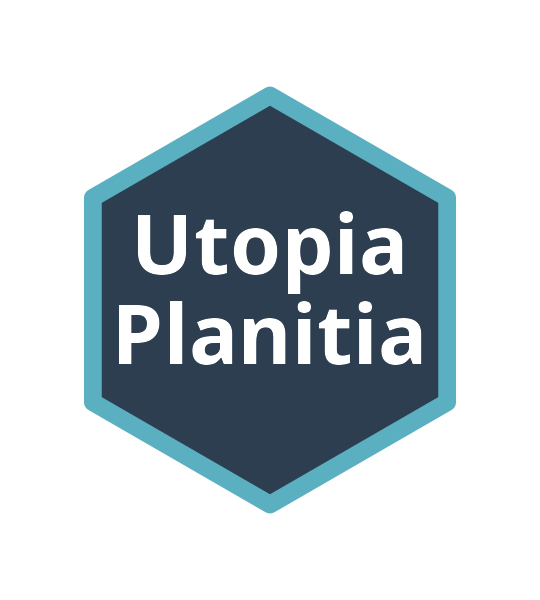
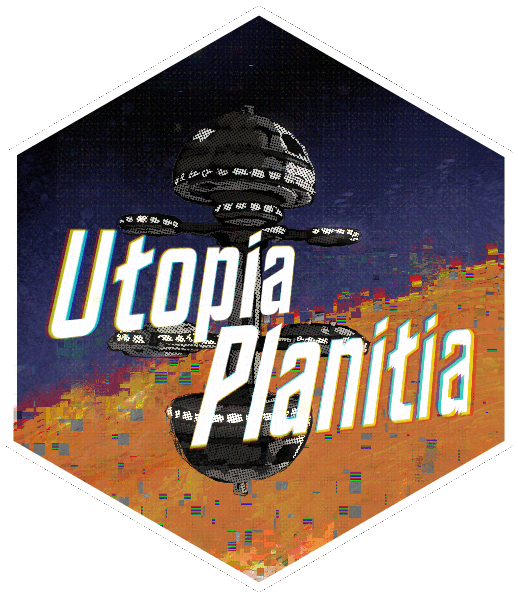
Deploying to gh-pages from @ CetiAlphaFive/UtopiaPlanitia@738af59d9994d3f0e9b8919aeb37b8b44486c2ab 🚀

diff --git a/reference/glmcf.html b/reference/glmcf.html
@@ -1,5 +1,5 @@
 <!DOCTYPE html>
-<!-- Generated by pkgdown: do not edit by hand --><html lang="en"><head><meta http-equiv="Content-Type" content="text/html; charset=UTF-8"><meta charset="utf-8"><meta http-equiv="X-UA-Compatible" content="IE=edge"><meta name="viewport" content="width=device-width, initial-scale=1, shrink-to-fit=no"><title>Causal Forest with cv.glmnet-Estimated Nuisances — glmcf • UtopiaPlanitia</title><script src="../lightswitch.js"></script><script src="../deps/jquery-3.6.0/jquery-3.6.0.min.js"></script><meta name="viewport" content="width=device-width, initial-scale=1, shrink-to-fit=no"><link href="../deps/bootstrap-5.3.1/bootstrap.min.css" rel="stylesheet"><script src="../deps/bootstrap-5.3.1/bootstrap.bundle.min.js"></script><link href="../deps/font-awesome-6.5.2/css/all.min.css" rel="stylesheet"><link href="../deps/font-awesome-6.5.2/css/v4-shims.min.css" rel="stylesheet"><script src="../deps/headroom-0.11.0/headroom.min.js"></script><script src="../deps/headroom-0.11.0/jQuery.headroom.min.js"></script><script src="../deps/bootstrap-toc-1.0.1/bootstrap-toc.min.js"></script><script src="../deps/clipboard.js-2.0.11/clipboard.min.js"></script><script src="../deps/search-1.0.0/autocomplete.jquery.min.js"></script><script src="../deps/search-1.0.0/fuse.min.js"></script><script src="../deps/search-1.0.0/mark.min.js"></script><!-- pkgdown --><script src="../pkgdown.js"></script><link href="../extra.css" rel="stylesheet"><meta property="og:title" content="Causal Forest with cv.glmnet-Estimated Nuisances — glmcf"><meta name="description" content="Refits a grf::causal_forest() after replacing the conditional outcome
+<!-- Generated by pkgdown: do not edit by hand --><html lang="en"><head><meta http-equiv="Content-Type" content="text/html; charset=UTF-8"><meta charset="utf-8"><meta http-equiv="X-UA-Compatible" content="IE=edge"><meta name="viewport" content="width=device-width, initial-scale=1, shrink-to-fit=no"><title>Causal Forest with cv.glmnet-Estimated Nuisances — glmcf • UtopiaPlanitia</title><script src="../lightswitch.js"></script><script src="../deps/jquery-3.6.0/jquery-3.6.0.min.js"></script><meta name="viewport" content="width=device-width, initial-scale=1, shrink-to-fit=no"><link href="../deps/bootstrap-5.3.8/bootstrap.min.css" rel="stylesheet"><script src="../deps/bootstrap-5.3.8/bootstrap.bundle.min.js"></script><link href="../deps/font-awesome-6.5.2/css/all.min.css" rel="stylesheet"><link href="../deps/font-awesome-6.5.2/css/v4-shims.min.css" rel="stylesheet"><script src="../deps/headroom-0.11.0/headroom.min.js"></script><script src="../deps/headroom-0.11.0/jQuery.headroom.min.js"></script><script src="../deps/bootstrap-toc-1.0.1/bootstrap-toc.min.js"></script><script src="../deps/clipboard.js-2.0.11/clipboard.min.js"></script><script src="../deps/search-1.0.0/autocomplete.jquery.min.js"></script><script src="../deps/search-1.0.0/fuse.min.js"></script><script src="../deps/search-1.0.0/mark.min.js"></script><!-- pkgdown --><script src="../pkgdown.js"></script><link href="../extra.css" rel="stylesheet"><meta property="og:title" content="Causal Forest with cv.glmnet-Estimated Nuisances — glmcf"><meta name="description" content="Refits a grf::causal_forest() after replacing the conditional outcome
 m(x) = E[Y | X = x] and propensity e(x) = E[W | X = x] with
 cross-fitted predictions from glmnet::cv.glmnet() (penalized
 elastic-net regression / classification, optionally relaxed). The CATE
@@ -52,7 +52,7 @@ the Robinson-residualisation nuisances are swapped."></head><body>
     <div class="ref-description section level2">
     <p>Refits a <code><a href="https://rdrr.io/pkg/grf/man/causal_forest.html" class="external-link">grf::causal_forest()</a></code> after replacing the conditional outcome
 <code>m(x) = E[Y | X = x]</code> and propensity <code>e(x) = E[W | X = x]</code> with
-cross-fitted predictions from <code><a href="https://glmnet.stanford.edu/reference/cv.glmnet.html" class="external-link">glmnet::cv.glmnet()</a></code> (penalized
+cross-fitted predictions from <code><a href="https://rdrr.io/pkg/glmnet/man/cv.glmnet.html" class="external-link">glmnet::cv.glmnet()</a></code> (penalized
 elastic-net regression / classification, optionally relaxed). The CATE
 estimator and identification assumptions of <code>grf</code> are unchanged — only
 the Robinson-residualisation nuisances are swapped.</p>
@@ -146,7 +146,7 @@ coefficients are biased by the lasso shrinkage.</p></dd>
 
 <dt id="arg-glmnet-args">glmnet_args<a class="anchor" aria-label="anchor" href="#arg-glmnet-args"></a></dt>
 <dd><p>Named list of additional arguments forwarded to
-<code><a href="https://glmnet.stanford.edu/reference/cv.glmnet.html" class="external-link">glmnet::cv.glmnet()</a></code> (e.g. <code>list(nfolds = 5L, nlambda = 50L)</code>).
+<code><a href="https://rdrr.io/pkg/glmnet/man/cv.glmnet.html" class="external-link">glmnet::cv.glmnet()</a></code> (e.g. <code>list(nfolds = 5L, nlambda = 50L)</code>).
 Note: <code>nfolds</code>/<code>foldid</code> supplied here are overridden by the
 internal shared <code>foldid</code> used for alpha tuning.</p></dd>
 

diff --git a/404.html b/404.html
@@ -7,8 +7,8 @@
 <meta name="viewport" content="width=device-width, initial-scale=1, shrink-to-fit=no">
 <title>Page not found (404) • UtopiaPlanitia</title>
 <script src="https://cetialphafive.github.io/UtopiaPlanitia/lightswitch.js"></script><script src="https://cetialphafive.github.io/UtopiaPlanitia/deps/jquery-3.6.0/jquery-3.6.0.min.js"></script><meta name="viewport" content="width=device-width, initial-scale=1, shrink-to-fit=no">
-<link href="https://cetialphafive.github.io/UtopiaPlanitia/deps/bootstrap-5.3.1/bootstrap.min.css" rel="stylesheet">
-<script src="https://cetialphafive.github.io/UtopiaPlanitia/deps/bootstrap-5.3.1/bootstrap.bundle.min.js"></script><link href="https://cetialphafive.github.io/UtopiaPlanitia/deps/font-awesome-6.5.2/css/all.min.css" rel="stylesheet">
+<link href="https://cetialphafive.github.io/UtopiaPlanitia/deps/bootstrap-5.3.8/bootstrap.min.css" rel="stylesheet">
+<script src="https://cetialphafive.github.io/UtopiaPlanitia/deps/bootstrap-5.3.8/bootstrap.bundle.min.js"></script><link href="https://cetialphafive.github.io/UtopiaPlanitia/deps/font-awesome-6.5.2/css/all.min.css" rel="stylesheet">
 <link href="https://cetialphafive.github.io/UtopiaPlanitia/deps/font-awesome-6.5.2/css/v4-shims.min.css" rel="stylesheet">
 <script src="https://cetialphafive.github.io/UtopiaPlanitia/deps/headroom-0.11.0/headroom.min.js"></script><script src="https://cetialphafive.github.io/UtopiaPlanitia/deps/headroom-0.11.0/jQuery.headroom.min.js"></script><script src="https://cetialphafive.github.io/UtopiaPlanitia/deps/bootstrap-toc-1.0.1/bootstrap-toc.min.js"></script><script src="https://cetialphafive.github.io/UtopiaPlanitia/deps/clipboard.js-2.0.11/clipboard.min.js"></script><script src="https://cetialphafive.github.io/UtopiaPlanitia/deps/search-1.0.0/autocomplete.jquery.min.js"></script><script src="https://cetialphafive.github.io/UtopiaPlanitia/deps/search-1.0.0/fuse.min.js"></script><script src="https://cetialphafive.github.io/UtopiaPlanitia/deps/search-1.0.0/mark.min.js"></script><!-- pkgdown --><script src="https://cetialphafive.github.io/UtopiaPlanitia/pkgdown.js"></script><link href="https://cetialphafive.github.io/UtopiaPlanitia/extra.css" rel="stylesheet">
 <meta property="og:title" content="Page not found (404)">

diff --git a/index.html b/index.html
@@ -7,8 +7,8 @@
 <meta name="viewport" content="width=device-width, initial-scale=1, shrink-to-fit=no">
 <title>Variable Importance, Heterogeneity Tests, and Visualization for Causal Forests • UtopiaPlanitia</title>
 <script src="lightswitch.js"></script><script src="deps/jquery-3.6.0/jquery-3.6.0.min.js"></script><meta name="viewport" content="width=device-width, initial-scale=1, shrink-to-fit=no">
-<link href="deps/bootstrap-5.3.1/bootstrap.min.css" rel="stylesheet">
-<script src="deps/bootstrap-5.3.1/bootstrap.bundle.min.js"></script><link href="deps/font-awesome-6.5.2/css/all.min.css" rel="stylesheet">
+<link href="deps/bootstrap-5.3.8/bootstrap.min.css" rel="stylesheet">
+<script src="deps/bootstrap-5.3.8/bootstrap.bundle.min.js"></script><link href="deps/font-awesome-6.5.2/css/all.min.css" rel="stylesheet">
 <link href="deps/font-awesome-6.5.2/css/v4-shims.min.css" rel="stylesheet">
 <script src="deps/headroom-0.11.0/headroom.min.js"></script><script src="deps/headroom-0.11.0/jQuery.headroom.min.js"></script><script src="deps/bootstrap-toc-1.0.1/bootstrap-toc.min.js"></script><script src="deps/clipboard.js-2.0.11/clipboard.min.js"></script><script src="deps/search-1.0.0/autocomplete.jquery.min.js"></script><script src="deps/search-1.0.0/fuse.min.js"></script><script src="deps/search-1.0.0/mark.min.js"></script><!-- pkgdown --><script src="pkgdown.js"></script><link href="extra.css" rel="stylesheet">
 <meta property="og:title" content="Variable Importance, Heterogeneity Tests, and Visualization for Causal Forests">

diff --git a/reference/autocf.html b/reference/autocf.html
@@ -1,5 +1,5 @@
 <!DOCTYPE html>
-<!-- Generated by pkgdown: do not edit by hand --><html lang="en"><head><meta http-equiv="Content-Type" content="text/html; charset=UTF-8"><meta charset="utf-8"><meta http-equiv="X-UA-Compatible" content="IE=edge"><meta name="viewport" content="width=device-width, initial-scale=1, shrink-to-fit=no"><title>Auto-Selected Nuisance Causal Forest — autocf • UtopiaPlanitia</title><script src="../lightswitch.js"></script><script src="../deps/jquery-3.6.0/jquery-3.6.0.min.js"></script><meta name="viewport" content="width=device-width, initial-scale=1, shrink-to-fit=no"><link href="../deps/bootstrap-5.3.1/bootstrap.min.css" rel="stylesheet"><script src="../deps/bootstrap-5.3.1/bootstrap.bundle.min.js"></script><link href="../deps/font-awesome-6.5.2/css/all.min.css" rel="stylesheet"><link href="../deps/font-awesome-6.5.2/css/v4-shims.min.css" rel="stylesheet"><script src="../deps/headroom-0.11.0/headroom.min.js"></script><script src="../deps/headroom-0.11.0/jQuery.headroom.min.js"></script><script src="../deps/bootstrap-toc-1.0.1/bootstrap-toc.min.js"></script><script src="../deps/clipboard.js-2.0.11/clipboard.min.js"></script><script src="../deps/search-1.0.0/autocomplete.jquery.min.js"></script><script src="../deps/search-1.0.0/fuse.min.js"></script><script src="../deps/search-1.0.0/mark.min.js"></script><!-- pkgdown --><script src="../pkgdown.js"></script><link href="../extra.css" rel="stylesheet"><meta property="og:title" content="Auto-Selected Nuisance Causal Forest — autocf"><meta name="description" content="Refits a grf::causal_forest() after replacing the conditional outcome
+<!-- Generated by pkgdown: do not edit by hand --><html lang="en"><head><meta http-equiv="Content-Type" content="text/html; charset=UTF-8"><meta charset="utf-8"><meta http-equiv="X-UA-Compatible" content="IE=edge"><meta name="viewport" content="width=device-width, initial-scale=1, shrink-to-fit=no"><title>Auto-Selected Nuisance Causal Forest — autocf • UtopiaPlanitia</title><script src="../lightswitch.js"></script><script src="../deps/jquery-3.6.0/jquery-3.6.0.min.js"></script><meta name="viewport" content="width=device-width, initial-scale=1, shrink-to-fit=no"><link href="../deps/bootstrap-5.3.8/bootstrap.min.css" rel="stylesheet"><script src="../deps/bootstrap-5.3.8/bootstrap.bundle.min.js"></script><link href="../deps/font-awesome-6.5.2/css/all.min.css" rel="stylesheet"><link href="../deps/font-awesome-6.5.2/css/v4-shims.min.css" rel="stylesheet"><script src="../deps/headroom-0.11.0/headroom.min.js"></script><script src="../deps/headroom-0.11.0/jQuery.headroom.min.js"></script><script src="../deps/bootstrap-toc-1.0.1/bootstrap-toc.min.js"></script><script src="../deps/clipboard.js-2.0.11/clipboard.min.js"></script><script src="../deps/search-1.0.0/autocomplete.jquery.min.js"></script><script src="../deps/search-1.0.0/fuse.min.js"></script><script src="../deps/search-1.0.0/mark.min.js"></script><!-- pkgdown --><script src="../pkgdown.js"></script><link href="../extra.css" rel="stylesheet"><meta property="og:title" content="Auto-Selected Nuisance Causal Forest — autocf"><meta name="description" content="Refits a grf::causal_forest() after replacing the conditional outcome
 m(x) = E[Y | X = x] and propensity e(x) = E[W | X = x] with the
 best-performing nuisance estimator from a candidate pool, scored by
 shared K-fold cross-fit weighted CV loss. The CATE estimator and
@@ -156,7 +156,7 @@ uses mlr3's default xgboost hyperparameters. Default <code>10L</code>.</p></dd>
 <dt id="arg-tabpfn-args-glmnet-args-xgboost-args-bart-args">tabpfn_args, glmnet_args, xgboost_args, bart_args<a class="anchor" aria-label="anchor" href="#arg-tabpfn-args-glmnet-args-xgboost-args-bart-args"></a></dt>
 <dd><p>Optional named
 lists of per-candidate extra arguments. <code>tabpfn_args</code> is forwarded
-to <code><a href="https://tabpfn.tidymodels.org/reference/tab_pfn.html" class="external-link">tabpfn::tab_pfn()</a></code>; <code>glmnet_args</code> to <code><a href="https://glmnet.stanford.edu/reference/cv.glmnet.html" class="external-link">glmnet::cv.glmnet()</a></code>;
+to <code><a href="https://tabpfn.tidymodels.org/reference/tab_pfn.html" class="external-link">tabpfn::tab_pfn()</a></code>; <code>glmnet_args</code> to <code><a href="https://rdrr.io/pkg/glmnet/man/cv.glmnet.html" class="external-link">glmnet::cv.glmnet()</a></code>;
 <code>xgboost_args</code> is forwarded to the mlr3 <code>xgboost</code> learner's
 <code>param_set$values</code> (use to set, e.g., <code>nthread = 4</code> for multi-core
 CPU or <code>device = "cuda"</code> to enable GPU on systems with a CUDA

diff --git a/LICENSE-text.html b/LICENSE-text.html
@@ -1,5 +1,5 @@
 <!DOCTYPE html>
-<!-- Generated by pkgdown: do not edit by hand --><html lang="en"><head><meta http-equiv="Content-Type" content="text/html; charset=UTF-8"><meta charset="utf-8"><meta http-equiv="X-UA-Compatible" content="IE=edge"><meta name="viewport" content="width=device-width, initial-scale=1, shrink-to-fit=no"><title>License • UtopiaPlanitia</title><script src="lightswitch.js"></script><script src="deps/jquery-3.6.0/jquery-3.6.0.min.js"></script><meta name="viewport" content="width=device-width, initial-scale=1, shrink-to-fit=no"><link href="deps/bootstrap-5.3.1/bootstrap.min.css" rel="stylesheet"><script src="deps/bootstrap-5.3.1/bootstrap.bundle.min.js"></script><link href="deps/font-awesome-6.5.2/css/all.min.css" rel="stylesheet"><link href="deps/font-awesome-6.5.2/css/v4-shims.min.css" rel="stylesheet"><script src="deps/headroom-0.11.0/headroom.min.js"></script><script src="deps/headroom-0.11.0/jQuery.headroom.min.js"></script><script src="deps/bootstrap-toc-1.0.1/bootstrap-toc.min.js"></script><script src="deps/clipboard.js-2.0.11/clipboard.min.js"></script><script src="deps/search-1.0.0/autocomplete.jquery.min.js"></script><script src="deps/search-1.0.0/fuse.min.js"></script><script src="deps/search-1.0.0/mark.min.js"></script><!-- pkgdown --><script src="pkgdown.js"></script><link href="extra.css" rel="stylesheet"><meta property="og:title" content="License"></head><body>
+<!-- Generated by pkgdown: do not edit by hand --><html lang="en"><head><meta http-equiv="Content-Type" content="text/html; charset=UTF-8"><meta charset="utf-8"><meta http-equiv="X-UA-Compatible" content="IE=edge"><meta name="viewport" content="width=device-width, initial-scale=1, shrink-to-fit=no"><title>License • UtopiaPlanitia</title><script src="lightswitch.js"></script><script src="deps/jquery-3.6.0/jquery-3.6.0.min.js"></script><meta name="viewport" content="width=device-width, initial-scale=1, shrink-to-fit=no"><link href="deps/bootstrap-5.3.8/bootstrap.min.css" rel="stylesheet"><script src="deps/bootstrap-5.3.8/bootstrap.bundle.min.js"></script><link href="deps/font-awesome-6.5.2/css/all.min.css" rel="stylesheet"><link href="deps/font-awesome-6.5.2/css/v4-shims.min.css" rel="stylesheet"><script src="deps/headroom-0.11.0/headroom.min.js"></script><script src="deps/headroom-0.11.0/jQuery.headroom.min.js"></script><script src="deps/bootstrap-toc-1.0.1/bootstrap-toc.min.js"></script><script src="deps/clipboard.js-2.0.11/clipboard.min.js"></script><script src="deps/search-1.0.0/autocomplete.jquery.min.js"></script><script src="deps/search-1.0.0/fuse.min.js"></script><script src="deps/search-1.0.0/mark.min.js"></script><!-- pkgdown --><script src="pkgdown.js"></script><link href="extra.css" rel="stylesheet"><meta property="og:title" content="License"></head><body>
     <a href="#main" class="visually-hidden-focusable">Skip to contents</a>
 
 

diff --git a/authors.html b/authors.html
@@ -1,5 +1,5 @@
 <!DOCTYPE html>
-<!-- Generated by pkgdown: do not edit by hand --><html lang="en"><head><meta http-equiv="Content-Type" content="text/html; charset=UTF-8"><meta charset="utf-8"><meta http-equiv="X-UA-Compatible" content="IE=edge"><meta name="viewport" content="width=device-width, initial-scale=1, shrink-to-fit=no"><title>Authors and Citation • UtopiaPlanitia</title><script src="lightswitch.js"></script><script src="deps/jquery-3.6.0/jquery-3.6.0.min.js"></script><meta name="viewport" content="width=device-width, initial-scale=1, shrink-to-fit=no"><link href="deps/bootstrap-5.3.1/bootstrap.min.css" rel="stylesheet"><script src="deps/bootstrap-5.3.1/bootstrap.bundle.min.js"></script><link href="deps/font-awesome-6.5.2/css/all.min.css" rel="stylesheet"><link href="deps/font-awesome-6.5.2/css/v4-shims.min.css" rel="stylesheet"><script src="deps/headroom-0.11.0/headroom.min.js"></script><script src="deps/headroom-0.11.0/jQuery.headroom.min.js"></script><script src="deps/bootstrap-toc-1.0.1/bootstrap-toc.min.js"></script><script src="deps/clipboard.js-2.0.11/clipboard.min.js"></script><script src="deps/search-1.0.0/autocomplete.jquery.min.js"></script><script src="deps/search-1.0.0/fuse.min.js"></script><script src="deps/search-1.0.0/mark.min.js"></script><!-- pkgdown --><script src="pkgdown.js"></script><link href="extra.css" rel="stylesheet"><meta property="og:title" content="Authors and Citation"></head><body>
+<!-- Generated by pkgdown: do not edit by hand --><html lang="en"><head><meta http-equiv="Content-Type" content="text/html; charset=UTF-8"><meta charset="utf-8"><meta http-equiv="X-UA-Compatible" content="IE=edge"><meta name="viewport" content="width=device-width, initial-scale=1, shrink-to-fit=no"><title>Authors and Citation • UtopiaPlanitia</title><script src="lightswitch.js"></script><script src="deps/jquery-3.6.0/jquery-3.6.0.min.js"></script><meta name="viewport" content="width=device-width, initial-scale=1, shrink-to-fit=no"><link href="deps/bootstrap-5.3.8/bootstrap.min.css" rel="stylesheet"><script src="deps/bootstrap-5.3.8/bootstrap.bundle.min.js"></script><link href="deps/font-awesome-6.5.2/css/all.min.css" rel="stylesheet"><link href="deps/font-awesome-6.5.2/css/v4-shims.min.css" rel="stylesheet"><script src="deps/headroom-0.11.0/headroom.min.js"></script><script src="deps/headroom-0.11.0/jQuery.headroom.min.js"></script><script src="deps/bootstrap-toc-1.0.1/bootstrap-toc.min.js"></script><script src="deps/clipboard.js-2.0.11/clipboard.min.js"></script><script src="deps/search-1.0.0/autocomplete.jquery.min.js"></script><script src="deps/search-1.0.0/fuse.min.js"></script><script src="deps/search-1.0.0/mark.min.js"></script><!-- pkgdown --><script src="pkgdown.js"></script><link href="extra.css" rel="stylesheet"><meta property="og:title" content="Authors and Citation"></head><body>
     <a href="#main" class="visually-hidden-focusable">Skip to contents</a>
 
 

diff --git a/news/index.html b/news/index.html
@@ -1,5 +1,5 @@
 <!DOCTYPE html>
-<!-- Generated by pkgdown: do not edit by hand --><html lang="en"><head><meta http-equiv="Content-Type" content="text/html; charset=UTF-8"><meta charset="utf-8"><meta http-equiv="X-UA-Compatible" content="IE=edge"><meta name="viewport" content="width=device-width, initial-scale=1, shrink-to-fit=no"><title>Changelog • UtopiaPlanitia</title><script src="../lightswitch.js"></script><script src="../deps/jquery-3.6.0/jquery-3.6.0.min.js"></script><meta name="viewport" content="width=device-width, initial-scale=1, shrink-to-fit=no"><link href="../deps/bootstrap-5.3.1/bootstrap.min.css" rel="stylesheet"><script src="../deps/bootstrap-5.3.1/bootstrap.bundle.min.js"></script><link href="../deps/font-awesome-6.5.2/css/all.min.css" rel="stylesheet"><link href="../deps/font-awesome-6.5.2/css/v4-shims.min.css" rel="stylesheet"><script src="../deps/headroom-0.11.0/headroom.min.js"></script><script src="../deps/headroom-0.11.0/jQuery.headroom.min.js"></script><script src="../deps/bootstrap-toc-1.0.1/bootstrap-toc.min.js"></script><script src="../deps/clipboard.js-2.0.11/clipboard.min.js"></script><script src="../deps/search-1.0.0/autocomplete.jquery.min.js"></script><script src="../deps/search-1.0.0/fuse.min.js"></script><script src="../deps/search-1.0.0/mark.min.js"></script><!-- pkgdown --><script src="../pkgdown.js"></script><link href="../extra.css" rel="stylesheet"><meta property="og:title" content="Changelog"></head><body>
+<!-- Generated by pkgdown: do not edit by hand --><html lang="en"><head><meta http-equiv="Content-Type" content="text/html; charset=UTF-8"><meta charset="utf-8"><meta http-equiv="X-UA-Compatible" content="IE=edge"><meta name="viewport" content="width=device-width, initial-scale=1, shrink-to-fit=no"><title>Changelog • UtopiaPlanitia</title><script src="../lightswitch.js"></script><script src="../deps/jquery-3.6.0/jquery-3.6.0.min.js"></script><meta name="viewport" content="width=device-width, initial-scale=1, shrink-to-fit=no"><link href="../deps/bootstrap-5.3.8/bootstrap.min.css" rel="stylesheet"><script src="../deps/bootstrap-5.3.8/bootstrap.bundle.min.js"></script><link href="../deps/font-awesome-6.5.2/css/all.min.css" rel="stylesheet"><link href="../deps/font-awesome-6.5.2/css/v4-shims.min.css" rel="stylesheet"><script src="../deps/headroom-0.11.0/headroom.min.js"></script><script src="../deps/headroom-0.11.0/jQuery.headroom.min.js"></script><script src="../deps/bootstrap-toc-1.0.1/bootstrap-toc.min.js"></script><script src="../deps/clipboard.js-2.0.11/clipboard.min.js"></script><script src="../deps/search-1.0.0/autocomplete.jquery.min.js"></script><script src="../deps/search-1.0.0/fuse.min.js"></script><script src="../deps/search-1.0.0/mark.min.js"></script><!-- pkgdown --><script src="../pkgdown.js"></script><link href="../extra.css" rel="stylesheet"><meta property="og:title" content="Changelog"></head><body>
     <a href="#main" class="visually-hidden-focusable">Skip to contents</a>
 
 

diff --git a/reference/cf_loco.html b/reference/cf_loco.html
@@ -1,5 +1,5 @@
 <!DOCTYPE html>
-<!-- Generated by pkgdown: do not edit by hand --><html lang="en"><head><meta http-equiv="Content-Type" content="text/html; charset=UTF-8"><meta charset="utf-8"><meta http-equiv="X-UA-Compatible" content="IE=edge"><meta name="viewport" content="width=device-width, initial-scale=1, shrink-to-fit=no"><title>Modified LOCO Variable Importance for Causal Forests — cf_loco • UtopiaPlanitia</title><script src="../lightswitch.js"></script><script src="../deps/jquery-3.6.0/jquery-3.6.0.min.js"></script><meta name="viewport" content="width=device-width, initial-scale=1, shrink-to-fit=no"><link href="../deps/bootstrap-5.3.1/bootstrap.min.css" rel="stylesheet"><script src="../deps/bootstrap-5.3.1/bootstrap.bundle.min.js"></script><link href="../deps/font-awesome-6.5.2/css/all.min.css" rel="stylesheet"><link href="../deps/font-awesome-6.5.2/css/v4-shims.min.css" rel="stylesheet"><script src="../deps/headroom-0.11.0/headroom.min.js"></script><script src="../deps/headroom-0.11.0/jQuery.headroom.min.js"></script><script src="../deps/bootstrap-toc-1.0.1/bootstrap-toc.min.js"></script><script src="../deps/clipboard.js-2.0.11/clipboard.min.js"></script><script src="../deps/search-1.0.0/autocomplete.jquery.min.js"></script><script src="../deps/search-1.0.0/fuse.min.js"></script><script src="../deps/search-1.0.0/mark.min.js"></script><!-- pkgdown --><script src="../pkgdown.js"></script><link href="../extra.css" rel="stylesheet"><meta property="og:title" content="Modified LOCO Variable Importance for Causal Forests — cf_loco"><meta name="description" content="Computes leave-one-covariate-out (LOCO) variable importance for causal
+<!-- Generated by pkgdown: do not edit by hand --><html lang="en"><head><meta http-equiv="Content-Type" content="text/html; charset=UTF-8"><meta charset="utf-8"><meta http-equiv="X-UA-Compatible" content="IE=edge"><meta name="viewport" content="width=device-width, initial-scale=1, shrink-to-fit=no"><title>Modified LOCO Variable Importance for Causal Forests — cf_loco • UtopiaPlanitia</title><script src="../lightswitch.js"></script><script src="../deps/jquery-3.6.0/jquery-3.6.0.min.js"></script><meta name="viewport" content="width=device-width, initial-scale=1, shrink-to-fit=no"><link href="../deps/bootstrap-5.3.8/bootstrap.min.css" rel="stylesheet"><script src="../deps/bootstrap-5.3.8/bootstrap.bundle.min.js"></script><link href="../deps/font-awesome-6.5.2/css/all.min.css" rel="stylesheet"><link href="../deps/font-awesome-6.5.2/css/v4-shims.min.css" rel="stylesheet"><script src="../deps/headroom-0.11.0/headroom.min.js"></script><script src="../deps/headroom-0.11.0/jQuery.headroom.min.js"></script><script src="../deps/bootstrap-toc-1.0.1/bootstrap-toc.min.js"></script><script src="../deps/clipboard.js-2.0.11/clipboard.min.js"></script><script src="../deps/search-1.0.0/autocomplete.jquery.min.js"></script><script src="../deps/search-1.0.0/fuse.min.js"></script><script src="../deps/search-1.0.0/mark.min.js"></script><!-- pkgdown --><script src="../pkgdown.js"></script><link href="../extra.css" rel="stylesheet"><meta property="og:title" content="Modified LOCO Variable Importance for Causal Forests — cf_loco"><meta name="description" content="Computes leave-one-covariate-out (LOCO) variable importance for causal
 forests using the debiased method of Benard and Josse (2023)."><meta property="og:description" content="Computes leave-one-covariate-out (LOCO) variable importance for causal
 forests using the debiased method of Benard and Josse (2023)."></head><body>
     <a href="#main" class="visually-hidden-focusable">Skip to contents</a>

diff --git a/reference/index.html b/reference/index.html
@@ -1,5 +1,5 @@
 <!DOCTYPE html>
-<!-- Generated by pkgdown: do not edit by hand --><html lang="en"><head><meta http-equiv="Content-Type" content="text/html; charset=UTF-8"><meta charset="utf-8"><meta http-equiv="X-UA-Compatible" content="IE=edge"><meta name="viewport" content="width=device-width, initial-scale=1, shrink-to-fit=no"><title>Package index • UtopiaPlanitia</title><script src="../lightswitch.js"></script><script src="../deps/jquery-3.6.0/jquery-3.6.0.min.js"></script><meta name="viewport" content="width=device-width, initial-scale=1, shrink-to-fit=no"><link href="../deps/bootstrap-5.3.1/bootstrap.min.css" rel="stylesheet"><script src="../deps/bootstrap-5.3.1/bootstrap.bundle.min.js"></script><link href="../deps/font-awesome-6.5.2/css/all.min.css" rel="stylesheet"><link href="../deps/font-awesome-6.5.2/css/v4-shims.min.css" rel="stylesheet"><script src="../deps/headroom-0.11.0/headroom.min.js"></script><script src="../deps/headroom-0.11.0/jQuery.headroom.min.js"></script><script src="../deps/bootstrap-toc-1.0.1/bootstrap-toc.min.js"></script><script src="../deps/clipboard.js-2.0.11/clipboard.min.js"></script><script src="../deps/search-1.0.0/autocomplete.jquery.min.js"></script><script src="../deps/search-1.0.0/fuse.min.js"></script><script src="../deps/search-1.0.0/mark.min.js"></script><!-- pkgdown --><script src="../pkgdown.js"></script><link href="../extra.css" rel="stylesheet"><meta property="og:title" content="Package index"></head><body>
+<!-- Generated by pkgdown: do not edit by hand --><html lang="en"><head><meta http-equiv="Content-Type" content="text/html; charset=UTF-8"><meta charset="utf-8"><meta http-equiv="X-UA-Compatible" content="IE=edge"><meta name="viewport" content="width=device-width, initial-scale=1, shrink-to-fit=no"><title>Package index • UtopiaPlanitia</title><script src="../lightswitch.js"></script><script src="../deps/jquery-3.6.0/jquery-3.6.0.min.js"></script><meta name="viewport" content="width=device-width, initial-scale=1, shrink-to-fit=no"><link href="../deps/bootstrap-5.3.8/bootstrap.min.css" rel="stylesheet"><script src="../deps/bootstrap-5.3.8/bootstrap.bundle.min.js"></script><link href="../deps/font-awesome-6.5.2/css/all.min.css" rel="stylesheet"><link href="../deps/font-awesome-6.5.2/css/v4-shims.min.css" rel="stylesheet"><script src="../deps/headroom-0.11.0/headroom.min.js"></script><script src="../deps/headroom-0.11.0/jQuery.headroom.min.js"></script><script src="../deps/bootstrap-toc-1.0.1/bootstrap-toc.min.js"></script><script src="../deps/clipboard.js-2.0.11/clipboard.min.js"></script><script src="../deps/search-1.0.0/autocomplete.jquery.min.js"></script><script src="../deps/search-1.0.0/fuse.min.js"></script><script src="../deps/search-1.0.0/mark.min.js"></script><!-- pkgdown --><script src="../pkgdown.js"></script><link href="../extra.css" rel="stylesheet"><meta property="og:title" content="Package index"></head><body>
     <a href="#main" class="visually-hidden-focusable">Skip to contents</a>
 
 

diff --git a/reference/loco.html b/reference/loco.html
@@ -1,5 +1,5 @@
 <!DOCTYPE html>
-<!-- Generated by pkgdown: do not edit by hand --><html lang="en"><head><meta http-equiv="Content-Type" content="text/html; charset=UTF-8"><meta charset="utf-8"><meta http-equiv="X-UA-Compatible" content="IE=edge"><meta name="viewport" content="width=device-width, initial-scale=1, shrink-to-fit=no"><title>LOCO Variable Importance for Outcome Models — loco • UtopiaPlanitia</title><script src="../lightswitch.js"></script><script src="../deps/jquery-3.6.0/jquery-3.6.0.min.js"></script><meta name="viewport" content="width=device-width, initial-scale=1, shrink-to-fit=no"><link href="../deps/bootstrap-5.3.1/bootstrap.min.css" rel="stylesheet"><script src="../deps/bootstrap-5.3.1/bootstrap.bundle.min.js"></script><link href="../deps/font-awesome-6.5.2/css/all.min.css" rel="stylesheet"><link href="../deps/font-awesome-6.5.2/css/v4-shims.min.css" rel="stylesheet"><script src="../deps/headroom-0.11.0/headroom.min.js"></script><script src="../deps/headroom-0.11.0/jQuery.headroom.min.js"></script><script src="../deps/bootstrap-toc-1.0.1/bootstrap-toc.min.js"></script><script src="../deps/clipboard.js-2.0.11/clipboard.min.js"></script><script src="../deps/search-1.0.0/autocomplete.jquery.min.js"></script><script src="../deps/search-1.0.0/fuse.min.js"></script><script src="../deps/search-1.0.0/mark.min.js"></script><!-- pkgdown --><script src="../pkgdown.js"></script><link href="../extra.css" rel="stylesheet"><meta property="og:title" content="LOCO Variable Importance for Outcome Models — loco"><meta name="description" content="Computes leave-one-covariate-out (LOCO) variable importance for
+<!-- Generated by pkgdown: do not edit by hand --><html lang="en"><head><meta http-equiv="Content-Type" content="text/html; charset=UTF-8"><meta charset="utf-8"><meta http-equiv="X-UA-Compatible" content="IE=edge"><meta name="viewport" content="width=device-width, initial-scale=1, shrink-to-fit=no"><title>LOCO Variable Importance for Outcome Models — loco • UtopiaPlanitia</title><script src="../lightswitch.js"></script><script src="../deps/jquery-3.6.0/jquery-3.6.0.min.js"></script><meta name="viewport" content="width=device-width, initial-scale=1, shrink-to-fit=no"><link href="../deps/bootstrap-5.3.8/bootstrap.min.css" rel="stylesheet"><script src="../deps/bootstrap-5.3.8/bootstrap.bundle.min.js"></script><link href="../deps/font-awesome-6.5.2/css/all.min.css" rel="stylesheet"><link href="../deps/font-awesome-6.5.2/css/v4-shims.min.css" rel="stylesheet"><script src="../deps/headroom-0.11.0/headroom.min.js"></script><script src="../deps/headroom-0.11.0/jQuery.headroom.min.js"></script><script src="../deps/bootstrap-toc-1.0.1/bootstrap-toc.min.js"></script><script src="../deps/clipboard.js-2.0.11/clipboard.min.js"></script><script src="../deps/search-1.0.0/autocomplete.jquery.min.js"></script><script src="../deps/search-1.0.0/fuse.min.js"></script><script src="../deps/search-1.0.0/mark.min.js"></script><!-- pkgdown --><script src="../pkgdown.js"></script><link href="../extra.css" rel="stylesheet"><meta property="og:title" content="LOCO Variable Importance for Outcome Models — loco"><meta name="description" content="Computes leave-one-covariate-out (LOCO) variable importance for
 outcome (non-causal) forests. Two backends are supported:"><meta property="og:description" content="Computes leave-one-covariate-out (LOCO) variable importance for
 outcome (non-causal) forests. Two backends are supported:"></head><body>
     <a href="#main" class="visually-hidden-focusable">Skip to contents</a>

diff --git a/reference/omni_hetero.html b/reference/omni_hetero.html
@@ -1,5 +1,5 @@
 <!DOCTYPE html>
-<!-- Generated by pkgdown: do not edit by hand --><html lang="en"><head><meta http-equiv="Content-Type" content="text/html; charset=UTF-8"><meta charset="utf-8"><meta http-equiv="X-UA-Compatible" content="IE=edge"><meta name="viewport" content="width=device-width, initial-scale=1, shrink-to-fit=no"><title>Omnibus Tests of Heterogeneity — omni_hetero • UtopiaPlanitia</title><script src="../lightswitch.js"></script><script src="../deps/jquery-3.6.0/jquery-3.6.0.min.js"></script><meta name="viewport" content="width=device-width, initial-scale=1, shrink-to-fit=no"><link href="../deps/bootstrap-5.3.1/bootstrap.min.css" rel="stylesheet"><script src="../deps/bootstrap-5.3.1/bootstrap.bundle.min.js"></script><link href="../deps/font-awesome-6.5.2/css/all.min.css" rel="stylesheet"><link href="../deps/font-awesome-6.5.2/css/v4-shims.min.css" rel="stylesheet"><script src="../deps/headroom-0.11.0/headroom.min.js"></script><script src="../deps/headroom-0.11.0/jQuery.headroom.min.js"></script><script src="../deps/bootstrap-toc-1.0.1/bootstrap-toc.min.js"></script><script src="../deps/clipboard.js-2.0.11/clipboard.min.js"></script><script src="../deps/search-1.0.0/autocomplete.jquery.min.js"></script><script src="../deps/search-1.0.0/fuse.min.js"></script><script src="../deps/search-1.0.0/mark.min.js"></script><!-- pkgdown --><script src="../pkgdown.js"></script><link href="../extra.css" rel="stylesheet"><meta property="og:title" content="Omnibus Tests of Heterogeneity — omni_hetero"><meta name="description" content="Performs various heterogeneity tests on a fitted causal forest model.
+<!-- Generated by pkgdown: do not edit by hand --><html lang="en"><head><meta http-equiv="Content-Type" content="text/html; charset=UTF-8"><meta charset="utf-8"><meta http-equiv="X-UA-Compatible" content="IE=edge"><meta name="viewport" content="width=device-width, initial-scale=1, shrink-to-fit=no"><title>Omnibus Tests of Heterogeneity — omni_hetero • UtopiaPlanitia</title><script src="../lightswitch.js"></script><script src="../deps/jquery-3.6.0/jquery-3.6.0.min.js"></script><meta name="viewport" content="width=device-width, initial-scale=1, shrink-to-fit=no"><link href="../deps/bootstrap-5.3.8/bootstrap.min.css" rel="stylesheet"><script src="../deps/bootstrap-5.3.8/bootstrap.bundle.min.js"></script><link href="../deps/font-awesome-6.5.2/css/all.min.css" rel="stylesheet"><link href="../deps/font-awesome-6.5.2/css/v4-shims.min.css" rel="stylesheet"><script src="../deps/headroom-0.11.0/headroom.min.js"></script><script src="../deps/headroom-0.11.0/jQuery.headroom.min.js"></script><script src="../deps/bootstrap-toc-1.0.1/bootstrap-toc.min.js"></script><script src="../deps/clipboard.js-2.0.11/clipboard.min.js"></script><script src="../deps/search-1.0.0/autocomplete.jquery.min.js"></script><script src="../deps/search-1.0.0/fuse.min.js"></script><script src="../deps/search-1.0.0/mark.min.js"></script><!-- pkgdown --><script src="../pkgdown.js"></script><link href="../extra.css" rel="stylesheet"><meta property="og:title" content="Omnibus Tests of Heterogeneity — omni_hetero"><meta name="description" content="Performs various heterogeneity tests on a fitted causal forest model.
 Combines the calibration test of Chernozhukov et al. (2018), a cross-fit
 high/low CATE split (Athey and Wager, 2019; cf. grf PR #1502), the
 sequential RATE test (Wager, 2024), and OOB RATE heuristics into a single

diff --git a/reference/plot.causal_forest.html b/reference/plot.causal_forest.html
@@ -1,5 +1,5 @@
 <!DOCTYPE html>
-<!-- Generated by pkgdown: do not edit by hand --><html lang="en"><head><meta http-equiv="Content-Type" content="text/html; charset=UTF-8"><meta charset="utf-8"><meta http-equiv="X-UA-Compatible" content="IE=edge"><meta name="viewport" content="width=device-width, initial-scale=1, shrink-to-fit=no"><title>Plot a Causal Forest — plot.causal_forest • UtopiaPlanitia</title><script src="../lightswitch.js"></script><script src="../deps/jquery-3.6.0/jquery-3.6.0.min.js"></script><meta name="viewport" content="width=device-width, initial-scale=1, shrink-to-fit=no"><link href="../deps/bootstrap-5.3.1/bootstrap.min.css" rel="stylesheet"><script src="../deps/bootstrap-5.3.1/bootstrap.bundle.min.js"></script><link href="../deps/font-awesome-6.5.2/css/all.min.css" rel="stylesheet"><link href="../deps/font-awesome-6.5.2/css/v4-shims.min.css" rel="stylesheet"><script src="../deps/headroom-0.11.0/headroom.min.js"></script><script src="../deps/headroom-0.11.0/jQuery.headroom.min.js"></script><script src="../deps/bootstrap-toc-1.0.1/bootstrap-toc.min.js"></script><script src="../deps/clipboard.js-2.0.11/clipboard.min.js"></script><script src="../deps/search-1.0.0/autocomplete.jquery.min.js"></script><script src="../deps/search-1.0.0/fuse.min.js"></script><script src="../deps/search-1.0.0/mark.min.js"></script><!-- pkgdown --><script src="../pkgdown.js"></script><link href="../extra.css" rel="stylesheet"><meta property="og:title" content="Plot a Causal Forest — plot.causal_forest"><meta name="description" content="Dispatches to one of the package's plot functions based on type."><meta property="og:description" content="Dispatches to one of the package's plot functions based on type."></head><body>
+<!-- Generated by pkgdown: do not edit by hand --><html lang="en"><head><meta http-equiv="Content-Type" content="text/html; charset=UTF-8"><meta charset="utf-8"><meta http-equiv="X-UA-Compatible" content="IE=edge"><meta name="viewport" content="width=device-width, initial-scale=1, shrink-to-fit=no"><title>Plot a Causal Forest — plot.causal_forest • UtopiaPlanitia</title><script src="../lightswitch.js"></script><script src="../deps/jquery-3.6.0/jquery-3.6.0.min.js"></script><meta name="viewport" content="width=device-width, initial-scale=1, shrink-to-fit=no"><link href="../deps/bootstrap-5.3.8/bootstrap.min.css" rel="stylesheet"><script src="../deps/bootstrap-5.3.8/bootstrap.bundle.min.js"></script><link href="../deps/font-awesome-6.5.2/css/all.min.css" rel="stylesheet"><link href="../deps/font-awesome-6.5.2/css/v4-shims.min.css" rel="stylesheet"><script src="../deps/headroom-0.11.0/headroom.min.js"></script><script src="../deps/headroom-0.11.0/jQuery.headroom.min.js"></script><script src="../deps/bootstrap-toc-1.0.1/bootstrap-toc.min.js"></script><script src="../deps/clipboard.js-2.0.11/clipboard.min.js"></script><script src="../deps/search-1.0.0/autocomplete.jquery.min.js"></script><script src="../deps/search-1.0.0/fuse.min.js"></script><script src="../deps/search-1.0.0/mark.min.js"></script><!-- pkgdown --><script src="../pkgdown.js"></script><link href="../extra.css" rel="stylesheet"><meta property="og:title" content="Plot a Causal Forest — plot.causal_forest"><meta name="description" content="Dispatches to one of the package's plot functions based on type."><meta property="og:description" content="Dispatches to one of the package's plot functions based on type."></head><body>
     <a href="#main" class="visually-hidden-focusable">Skip to contents</a>
 
 